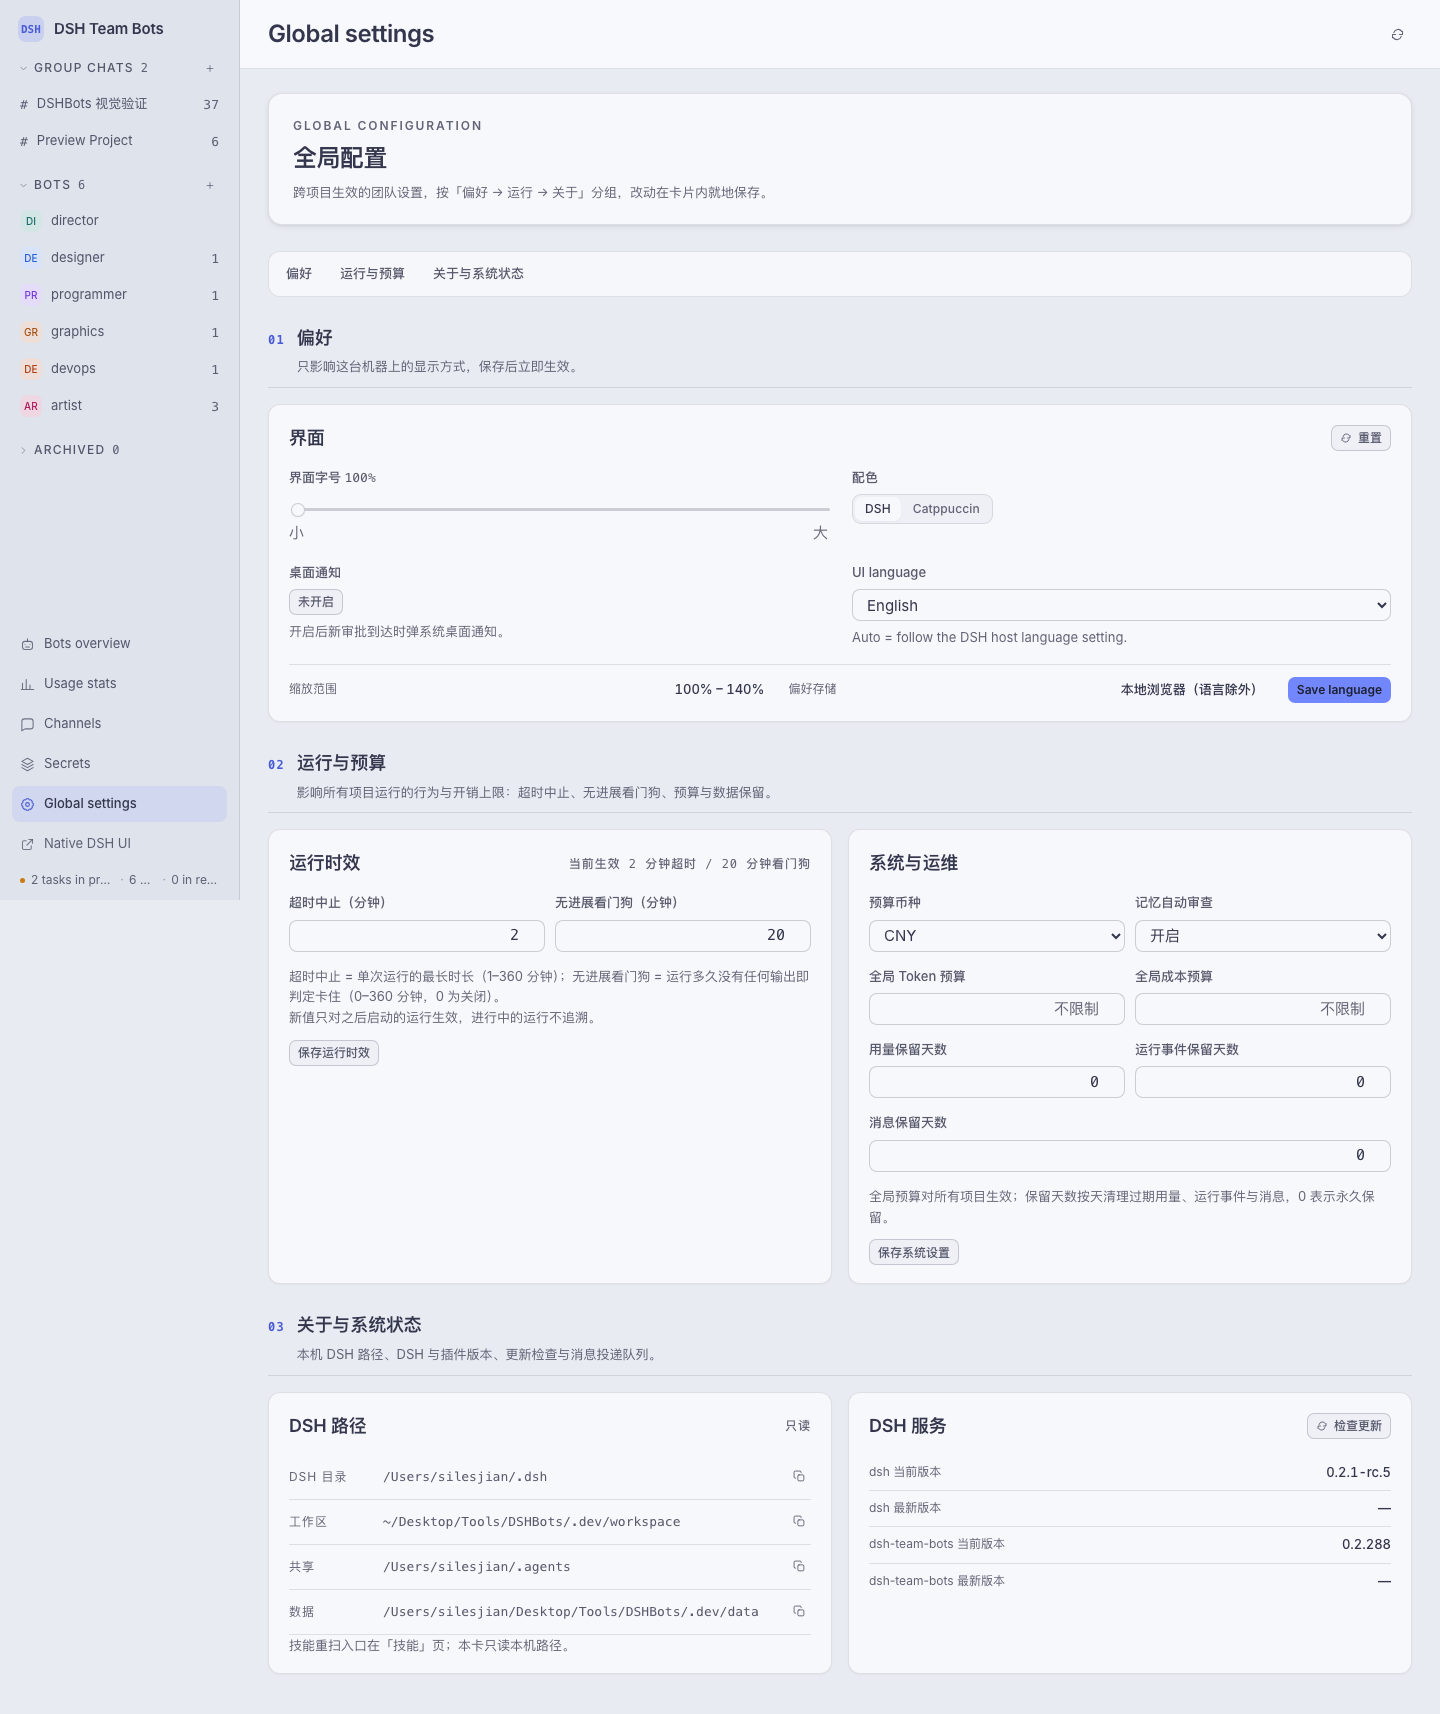
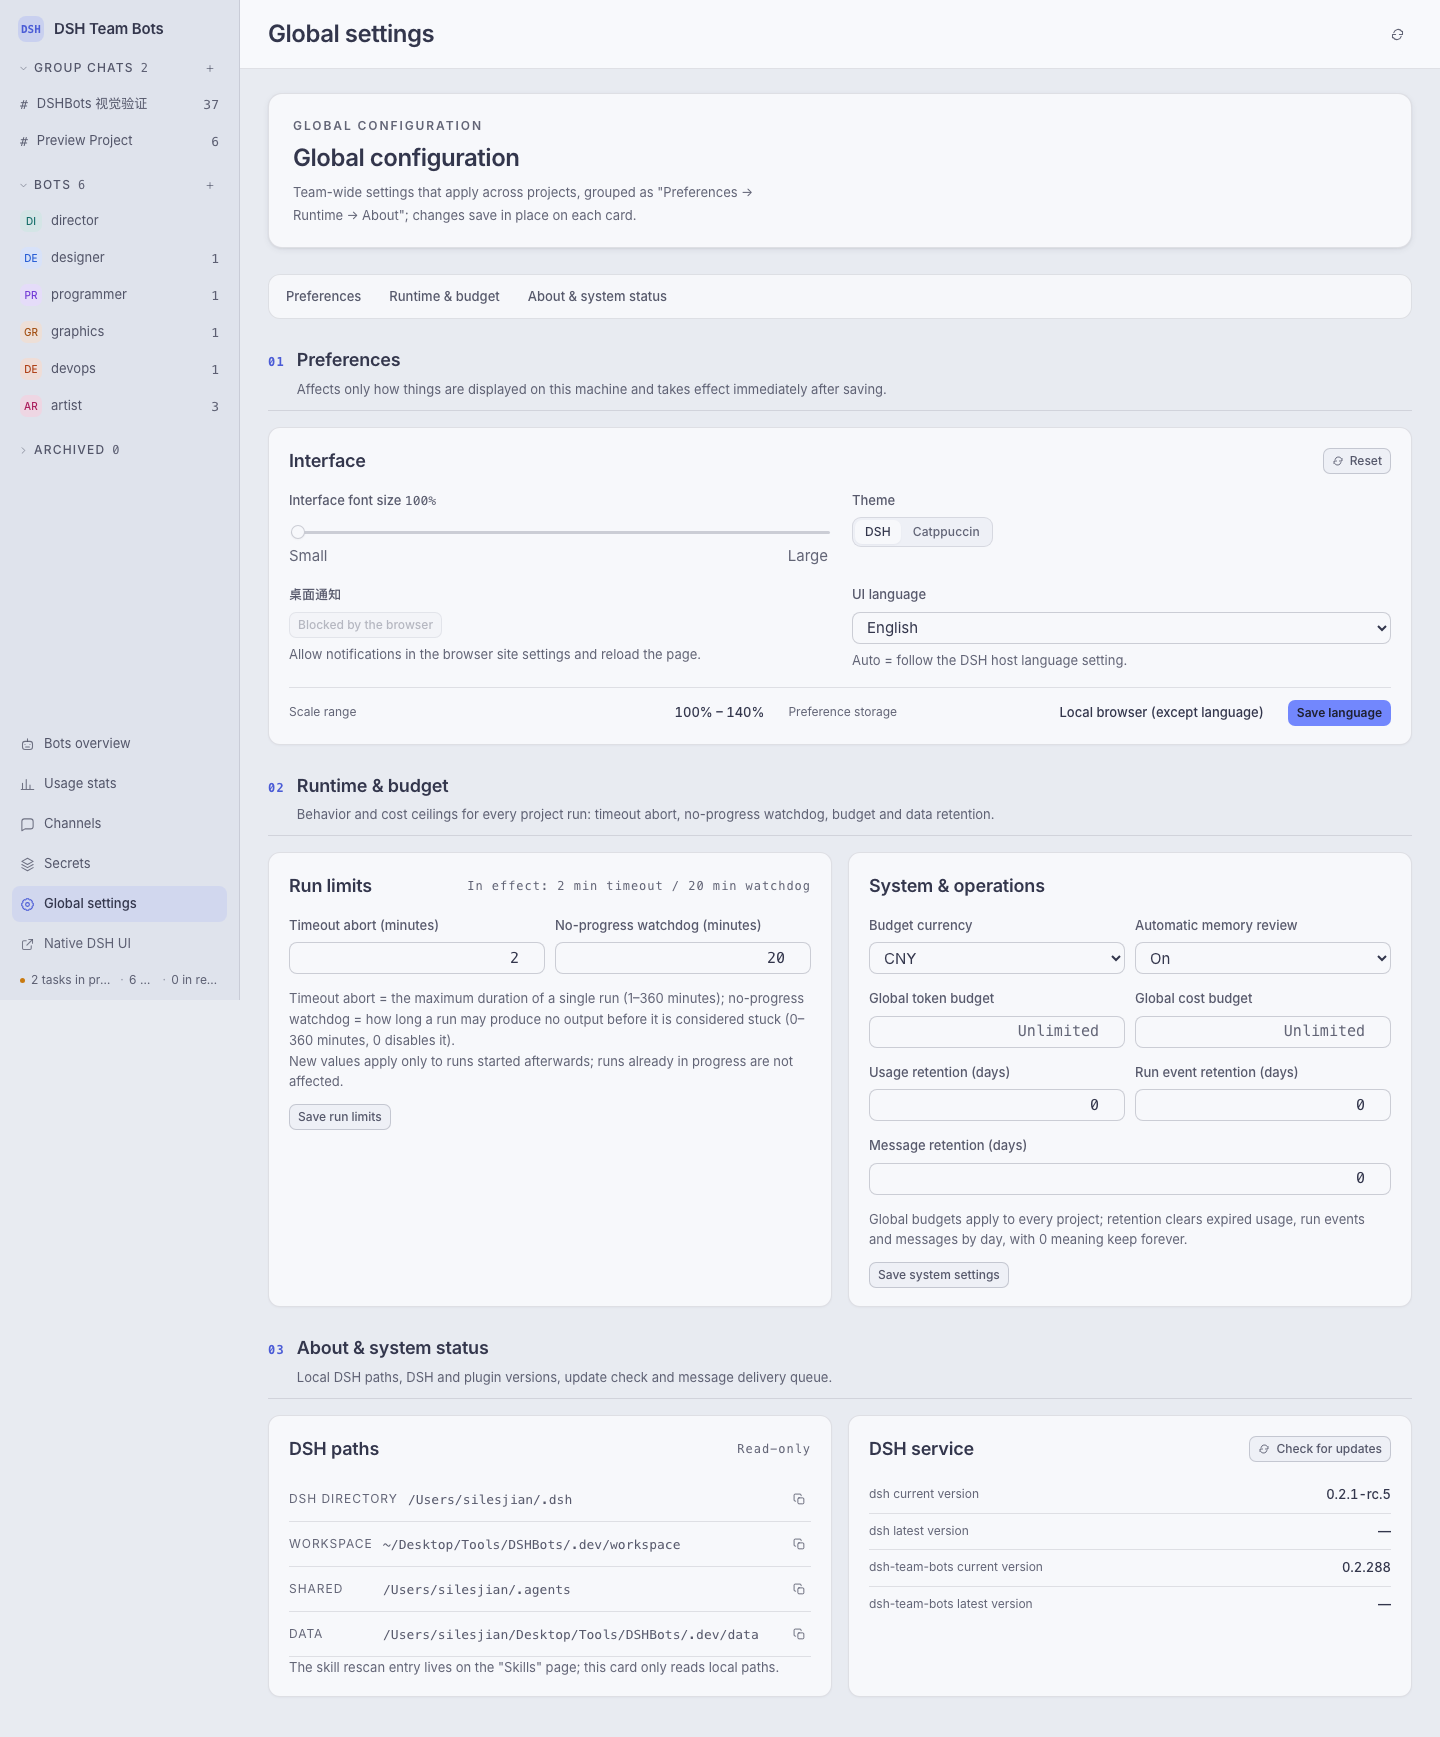
docs: 重截英文组截图（tasks/usage/global-config），价格卡编辑按钮接入 i18n

diff --git a/ui/modules/modal-forms.ts b/ui/modules/modal-forms.ts
@@ -457,7 +457,7 @@ function modalTask(task) {
         ${(parentTask || blockedNames.length) ? `<div class="note">${parentTask ? `父任务：${esc(parentTask.identifier)} · ${esc(parentTask.title)}` : ''}${parentTask && blockedNames.length ? ' · ' : ''}${blockedNames.length ? `被 ${blockedNames.length} 个任务阻塞：${esc(blockedNames.join('、'))}` : ''}</div>` : ''}
         <div class="scope-block">
           <div class="eyebrow" style="margin-bottom:6px">写范围</div>
-          ${editingScopes ? scopesEdit : `${scopesEditable ? `<div class="btn-row" style="margin-bottom:6px"><button class="btn small" type="button" data-action="edit-scopes" data-task-id="${attr(task.id)}">${icon('edit')}${t('price.edit')}</button></div>` : ''}${scopesView}
+          ${editingScopes ? scopesEdit : `${scopesEditable ? `<div class="btn-row" style="margin-bottom:6px"><button class="btn small" type="button" data-action="edit-scopes" data-task-id="${attr(task.id)}">${icon('edit')}编辑</button></div>` : ''}${scopesView}
           <div class="hint" style="margin-top:6px">写范围是并行调度依据：同项目内路径互不重叠的任务才会并行。</div>`}
         </div>
         ${task.timeBudgetMinutes ? `<div class="scope-block">
@@ -612,7 +612,7 @@ function renderPriceCard() {
       <td class="num mono">${esc(price.output_per_mtok)}</td>
       <td>${esc(price.currency)}</td>
       <td>${esc(provider)}</td>
-      <td class="num"><button class="btn small" data-action="edit-price" data-model="${attr(price.model)}" data-provider="${attr(price.provider)}">${icon('edit')}编辑</button></td>
+      <td class="num"><button class="btn small" data-action="edit-price" data-model="${attr(price.model)}" data-provider="${attr(price.provider)}">${icon('edit')}${t('price.edit')}</button></td>
     </tr>`
   }).join('')
   const body = prices.length
